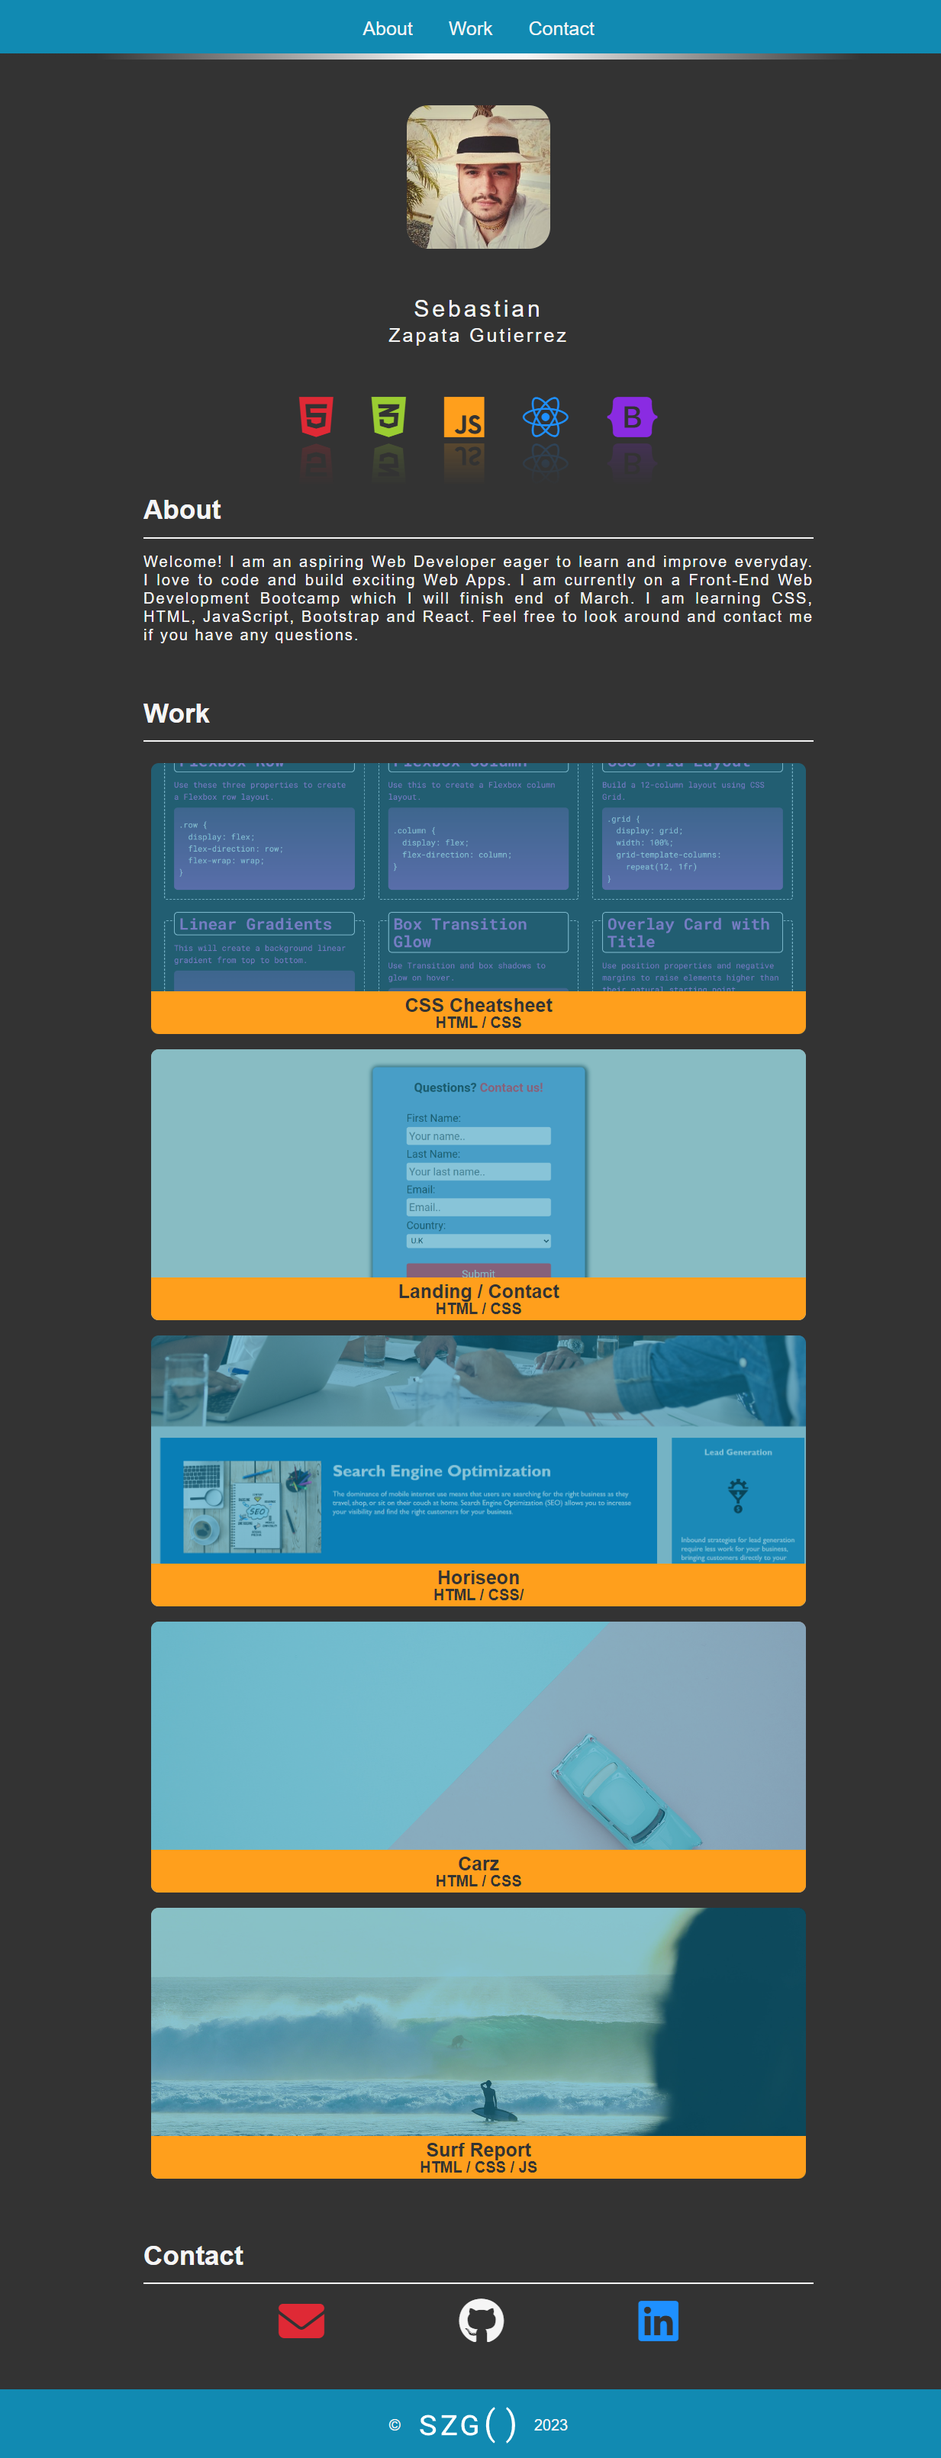
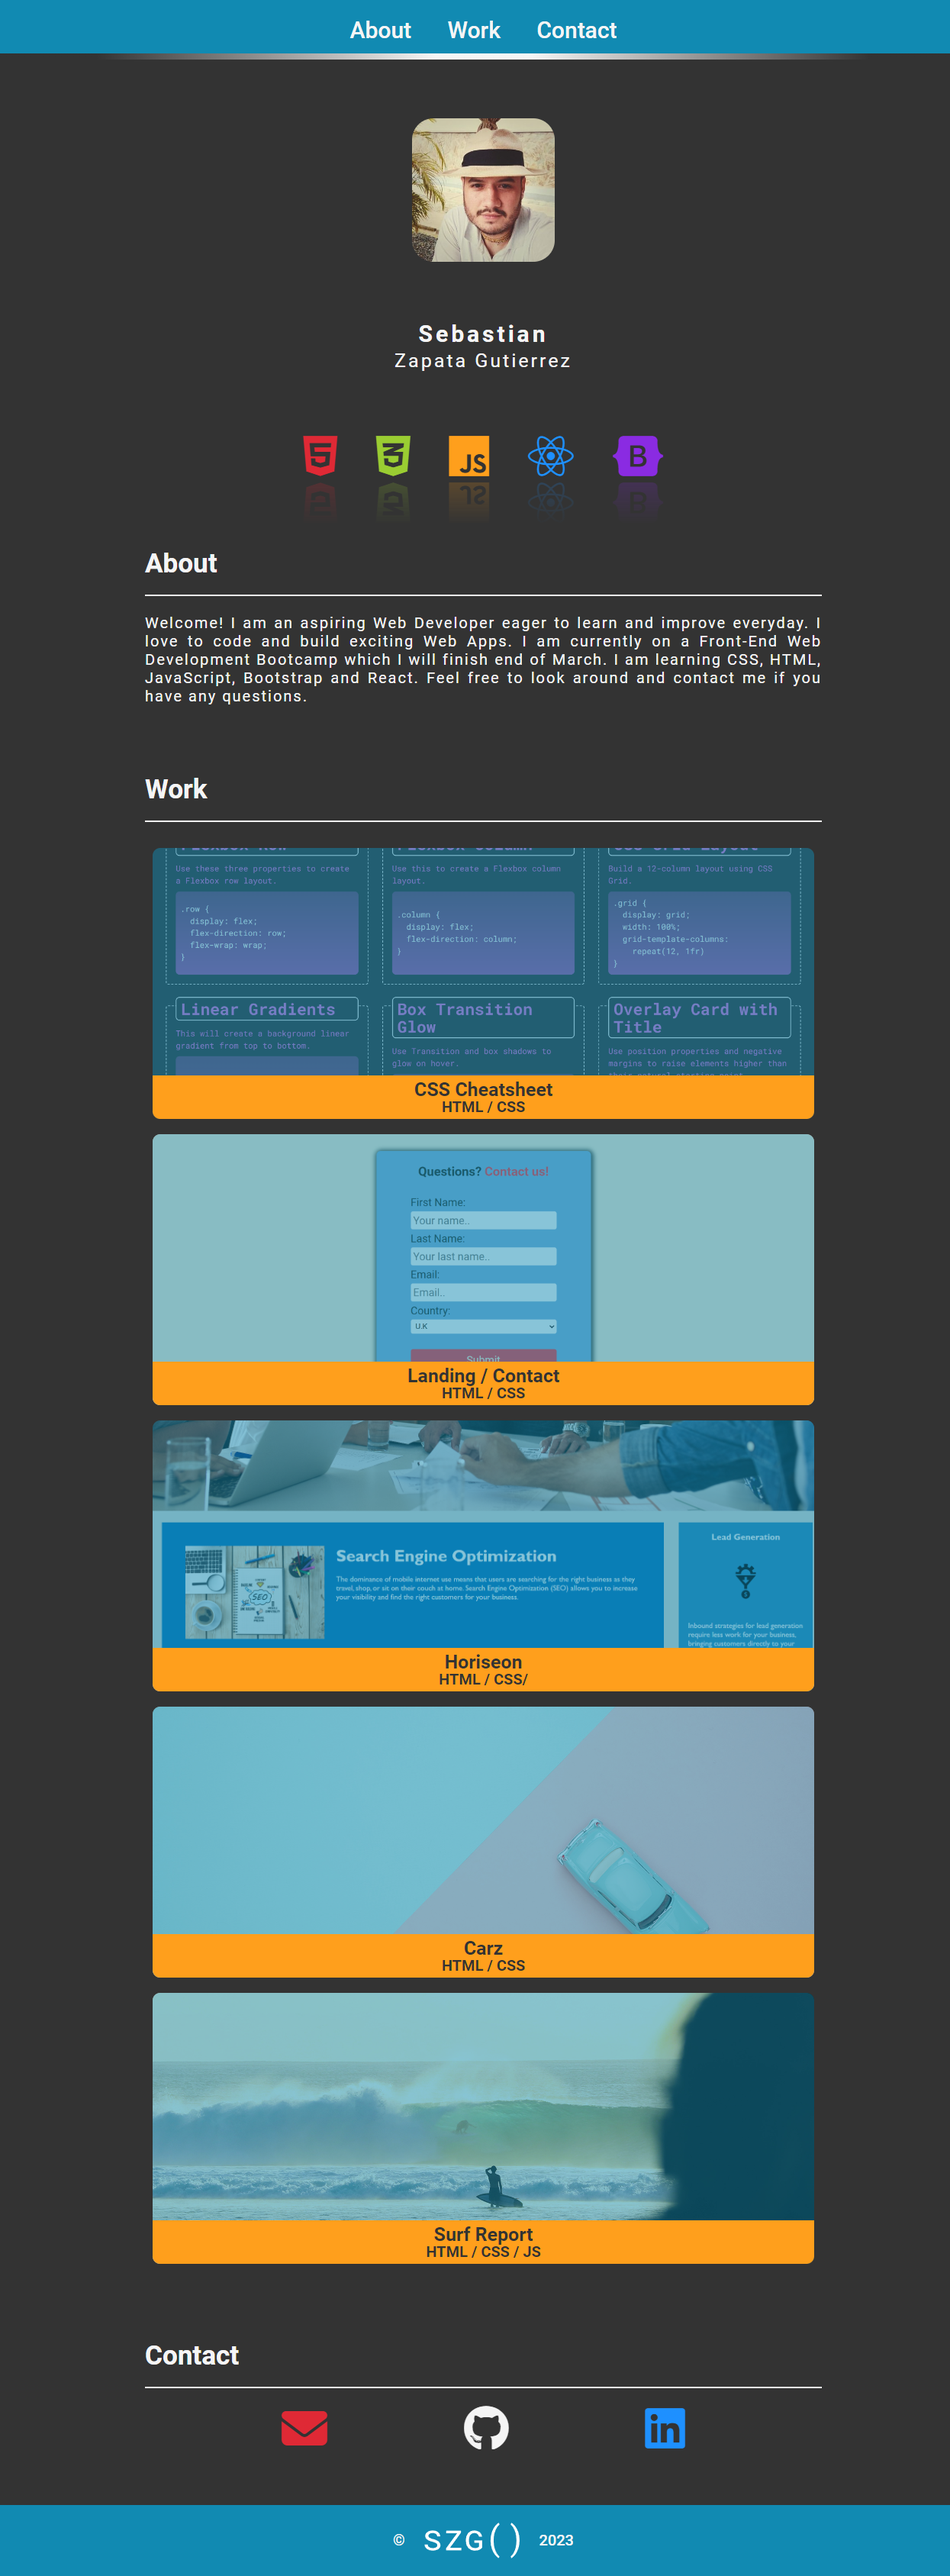
Updated README

diff --git a/README.md b/README.md
@@ -21,15 +21,15 @@
 
 - 768px - 1024px
 
-- 1024px - 1440px
+- 1024px - 1200px
 
 ## Desktop
 
 ![1024-1440](./assets/images/demos/Portofolio-Desktop.png)
 
-## 1024px - 1440px
+## 1024px - 1200px
 
-![0-481](./assets/images/demos/Portfolio-1024-1440.png)
+![0-481](./assets/images/demos/Portfolio-1024-1200.png)
 
 ## 768px - 1024px
 
